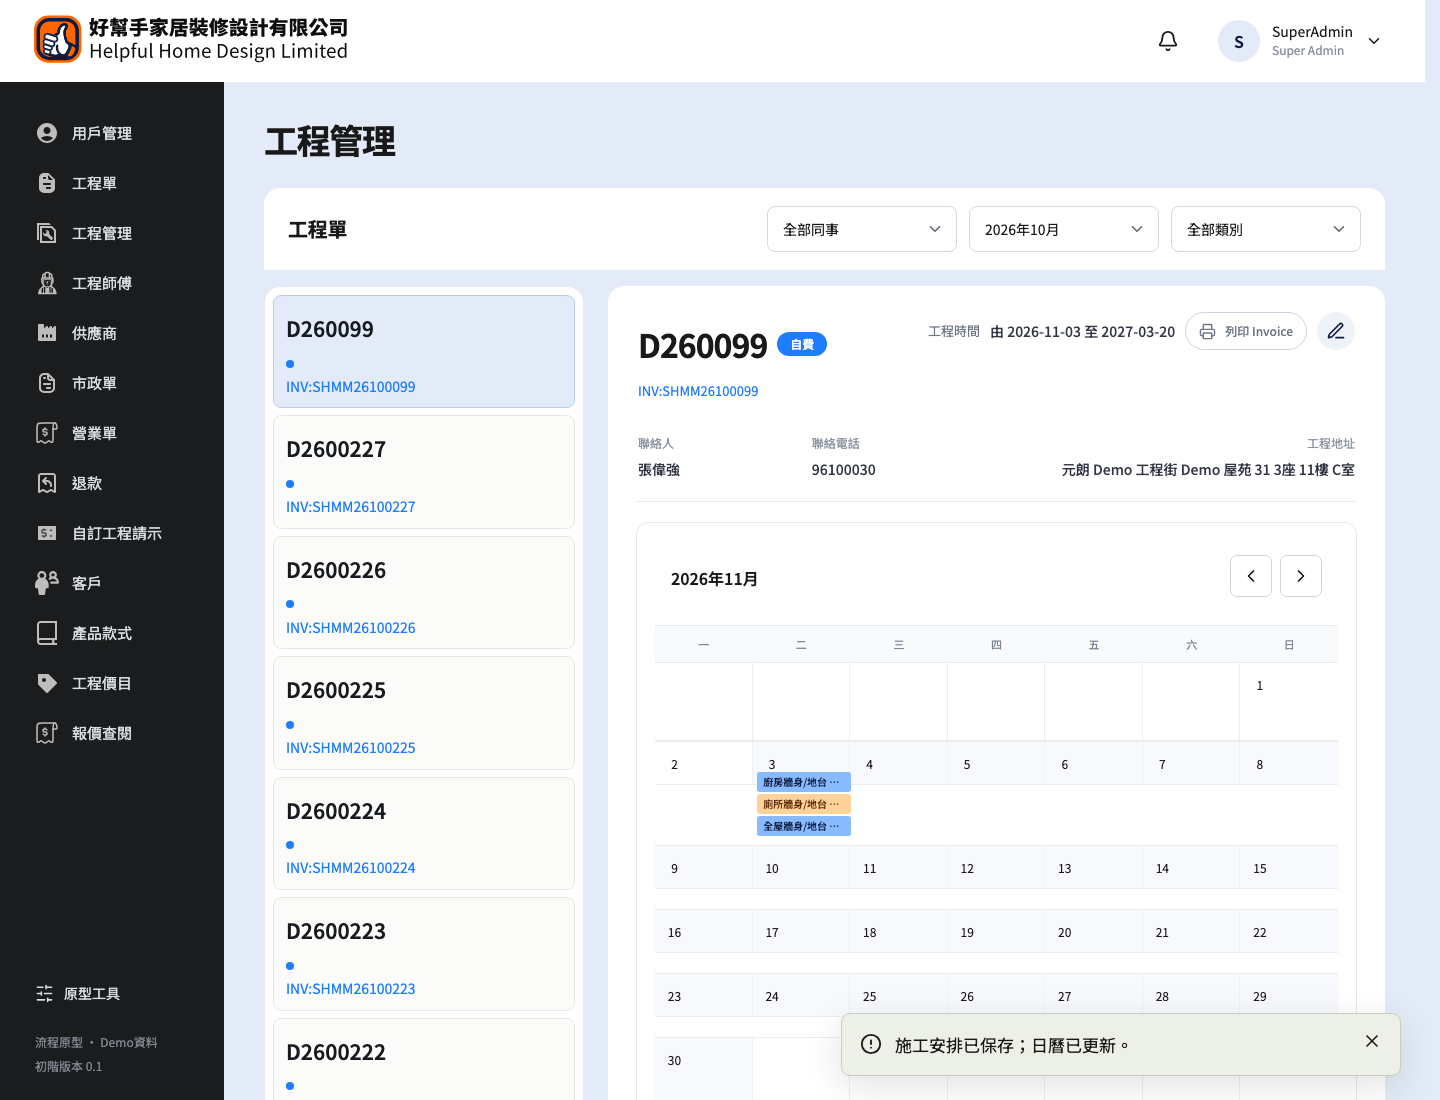
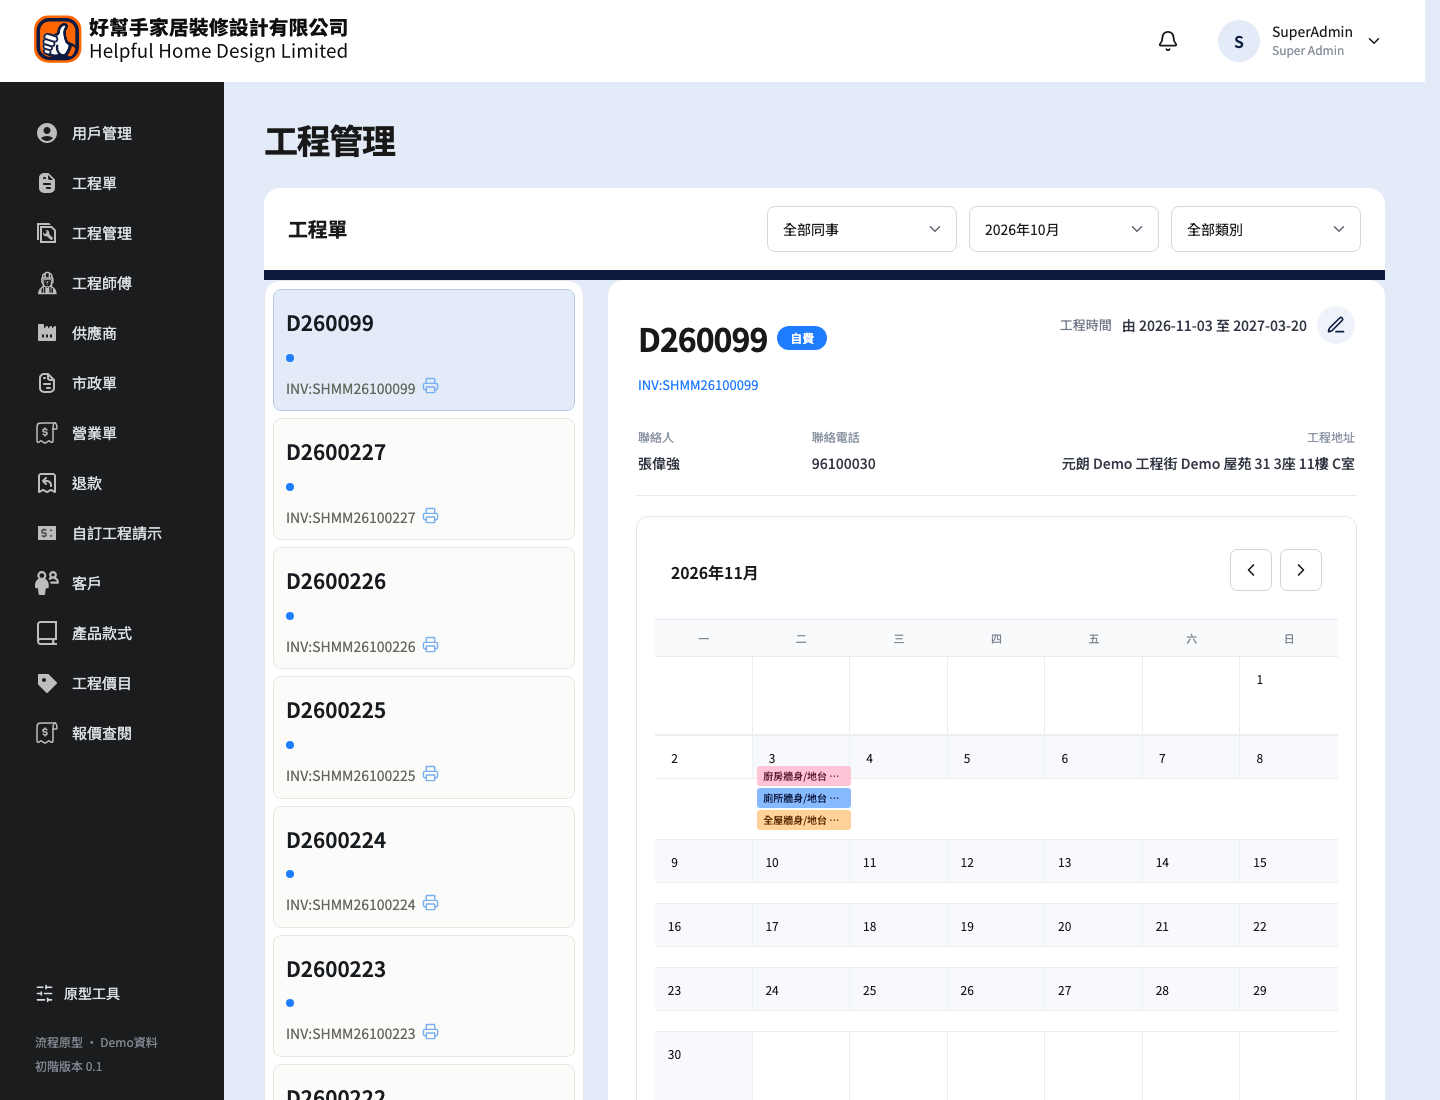
fix(engineering): connect filter bar and move invoice print to rail

diff --git a/src/pages/Office.tsx b/src/pages/Office.tsx
@@ -1815,6 +1815,7 @@ function WorkOrderRail({
   filters: OrderFilters;
 }) {
   const { actor, engine } = useApp();
+  const nav = useNavigate();
   const manager =
     actor.role === "cs_supervisor" ||
     ["admin", "admin_staff"].includes(actor.role);
@@ -1872,10 +1873,16 @@ function WorkOrderRail({
                 categories = quote.orderCategories;
             } catch {}
             return (
-              <Link
+              <div
                 key={order.id}
-                to={"/orders/" + order.id}
+                role="link"
+                tabIndex={0}
                 className={`order-rail-row ${selectedId === order.id ? "selected" : ""}`}
+                onClick={() => nav("/orders/" + order.id)}
+                onKeyDown={(event) => {
+                  if (event.key === "Enter" || event.key === " ")
+                    nav("/orders/" + order.id);
+                }}
               >
                 <span className="order-rail-row-top">
                   <strong>{order.number}</strong>
@@ -1895,8 +1902,23 @@ function WorkOrderRail({
                     ))}
                   </span>
                 </span>
-                <small>INV:{invoiceNumber || "—"}</small>
-              </Link>
+                {invoiceNumber ? (
+                  <button
+                    type="button"
+                    className="order-rail-invoice-print"
+                    aria-label={`列印 ${invoiceNumber} Invoice`}
+                    onClick={(event) => {
+                      event.stopPropagation();
+                      nav("/documents/invoice/" + order.invoiceId);
+                    }}
+                  >
+                    <span>INV:{invoiceNumber}</span>
+                    <Printer size={17} />
+                  </button>
+                ) : (
+                  <small>INV:—</small>
+                )}
+              </div>
             );
           })
         )}
@@ -2437,12 +2459,6 @@ function OrderPanel({ order }: { order: WorkOrder }) {
           <strong>
             由 {order.startDate} 至 {order.endDate}
           </strong>
-          <Button
-            className="wo-print-invoice"
-            onClick={() => nav("/documents/invoice/" + invoice.id)}
-          >
-            <Printer size={17} /> 列印 Invoice
-          </Button>
           {canEdit && (
             <button
               type="button"

diff --git a/src/styles.css b/src/styles.css
@@ -8988,3 +8988,38 @@ textarea::placeholder {
 .order-rail-head {
   display: none;
 }
+
+/* Join the filter bar to the workspace, matching the reference header */
+.orders-filter-bar {
+  width: 100%;
+  max-width: 1390px;
+  margin: 0 auto;
+  border-radius: 16px 16px 0 0;
+  border-bottom: 10px solid var(--navy);
+}
+.orders-workspace {
+  width: 100%;
+  max-width: 1390px;
+  margin: 0 auto;
+}
+.order-rail-row {
+  cursor: pointer;
+}
+.order-rail-invoice-print {
+  display: inline-flex;
+  align-items: center;
+  gap: 6px;
+  margin-top: 4px;
+  padding: 0;
+  border: 0;
+  background: transparent;
+  color: var(--blue);
+  font-size: 13px;
+  text-align: left;
+}
+.order-rail-invoice-print:hover span {
+  text-decoration: underline;
+}
+.order-rail-invoice-print svg {
+  color: #78aef2;
+}

diff --git a/tests/e2e/engineering-management.spec.ts b/tests/e2e/engineering-management.spec.ts
@@ -35,7 +35,9 @@ test("工程管理：主管看全部、普通CS只看自己、日曆、逐項安
     page.getByRole("heading", { name: "D2600001", exact: true }),
   ).toBeVisible();
   await expect(page.getByRole("region", { name: "工程日曆" })).toBeVisible();
-  await expect(page.getByRole("button", { name: "列印 Invoice" })).toBeVisible();
+  await expect(
+    rail.getByRole("button", { name: /列印.*Invoice/ }).first(),
+  ).toBeVisible();
   await expect(rail.locator(".order-rail-dot").first()).toBeVisible();
 
   const photoInput = page.locator(".site-photo-upload input[type=file]");
